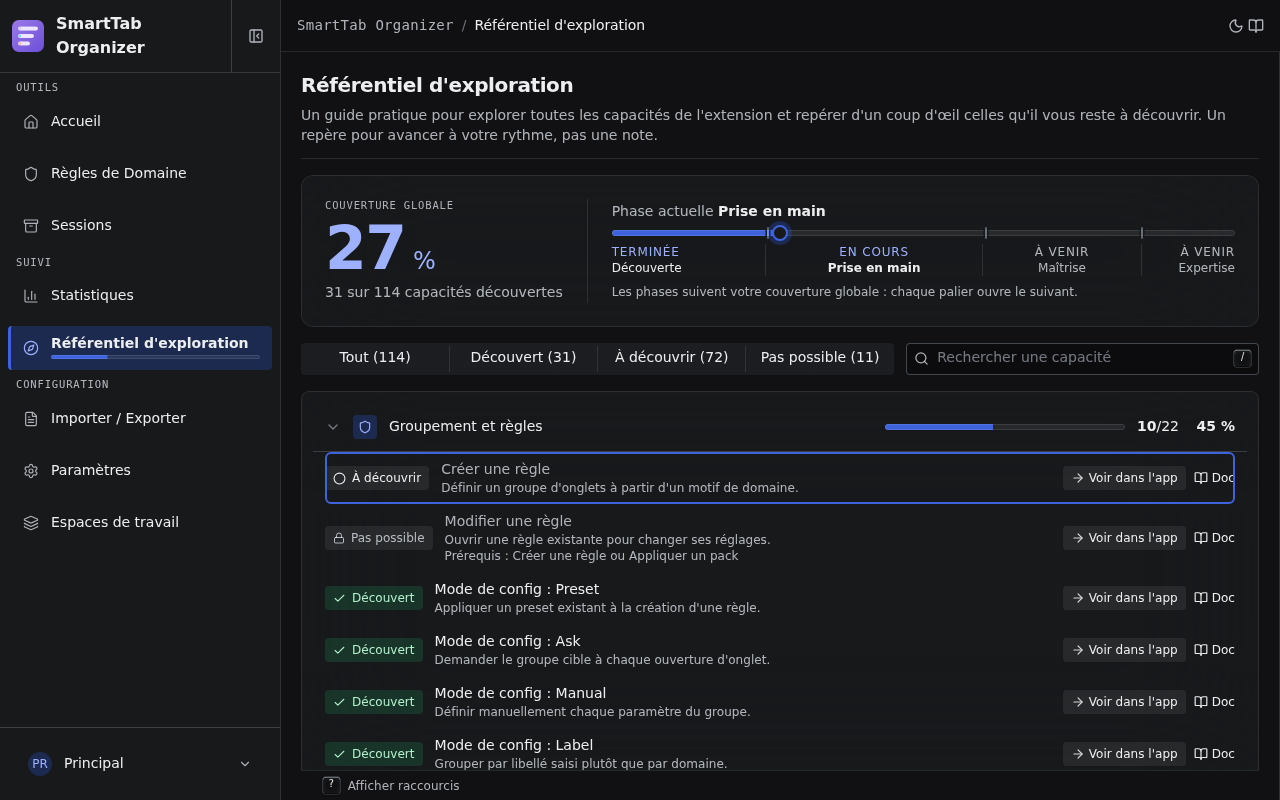
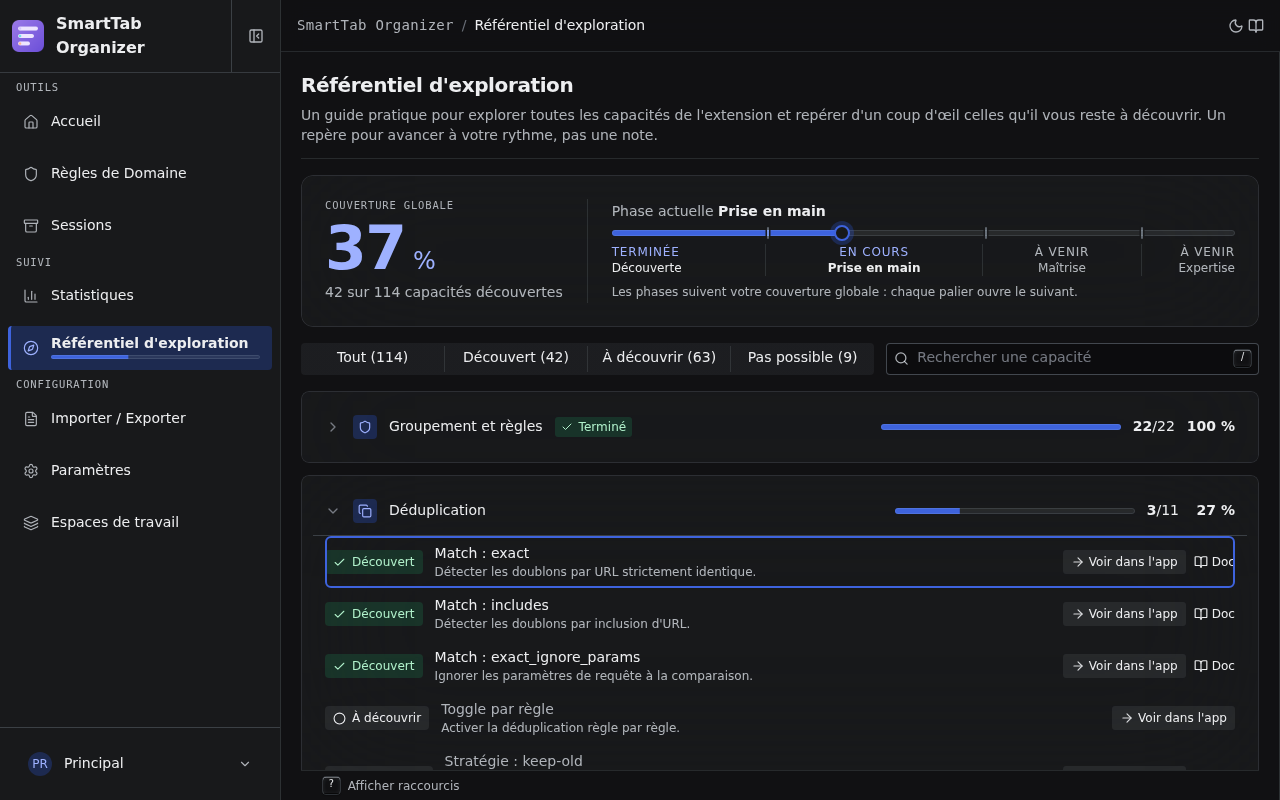
Show a completed domain in the Exploration doc capture
Re-seed scenario 28 so the first domain (grouping) is fully discovered: it
collapses to a header row showing the "Terminé" badge right after the title,
which documents the new completed-group design. The next domain (dedup)
auto-opens and keeps illustrating the three row states (its keep-strategy rows
stay locked because deduplication is no longer enabled in the seed).

Regenerate the exploration-overview screenshots (3 locales x 2 themes).

diff --git a/e2e-doc-scenarios/scenarios/28-exploration.scenario.ts b/e2e-doc-scenarios/scenarios/28-exploration.scenario.ts
@@ -15,19 +15,26 @@ import { EXPLORATION_MANIFEST } from './28-exploration.routing.js';
 
 const SCENARIO_ID = '28-exploration';
 
-// Curated so the default-open "grouping" domain shows all three states:
-// several discovered rows, "Create a rule" still to discover, and the
-// rule-dependent rows locked (their prerequisite is not met).
+// Curated so the first domain ("grouping") is fully discovered: it collapses to
+// a single header row showing the green "Terminé" badge right after the title,
+// which showcases the completed-group design. The next incomplete domain
+// ("dedup") then auto-opens and illustrates the three row states: several
+// discovered rows, two still to discover, and the keep-strategy rows locked
+// (their prerequisite, deduplication enabled, is not met).
 const DISCOVERED = [
-  'grouping.mode.preset', 'grouping.mode.ask', 'grouping.mode.manual', 'grouping.mode.label',
-  'grouping.color', 'grouping.nameSource.title', 'grouping.url.regex', 'grouping.titleRegex',
-  'grouping.fallbackLabel',
+  'grouping.create', 'grouping.edit', 'grouping.mode.preset', 'grouping.mode.ask',
+  'grouping.mode.manual', 'grouping.mode.label', 'grouping.nameSource.title',
+  'grouping.nameSource.url', 'grouping.nameSource.smart', 'grouping.url.regex',
+  'grouping.url.queryParam', 'grouping.titleRegex', 'grouping.fallbackLabel',
+  'grouping.color', 'grouping.presetApplied', 'grouping.reorder.drag',
+  'grouping.reorder.keyboard', 'grouping.toggle', 'grouping.overlaps',
+  'grouping.merge', 'grouping.view.filterSort',
   'dedup.match.exact', 'dedup.match.includes', 'dedup.match.ignoreParams',
   'sessions.snapshot', 'sessions.restore.current',
   'workspaces.create',
   'packs.openGallery',
   'stats.view', 'stats.exploration', 'stats.trends',
-  'settings.theme', 'settings.toggle.grouping', 'settings.toggle.dedup', 'settings.quickActions',
+  'settings.theme', 'settings.toggle.grouping', 'settings.quickActions',
   'nav.globalSearch', 'nav.mnemonics',
   'help.drawer', 'help.contextF1',
   'io.exportRules', 'io.importRules',
